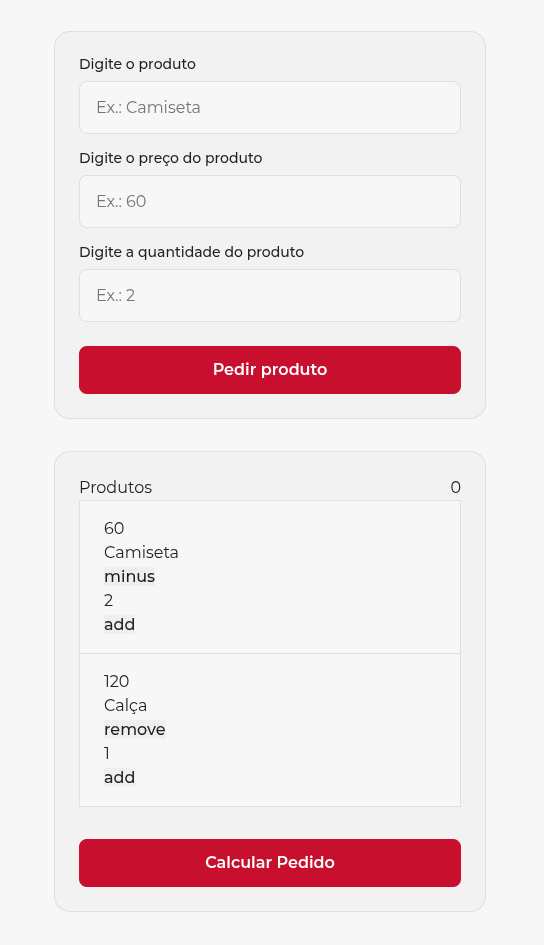
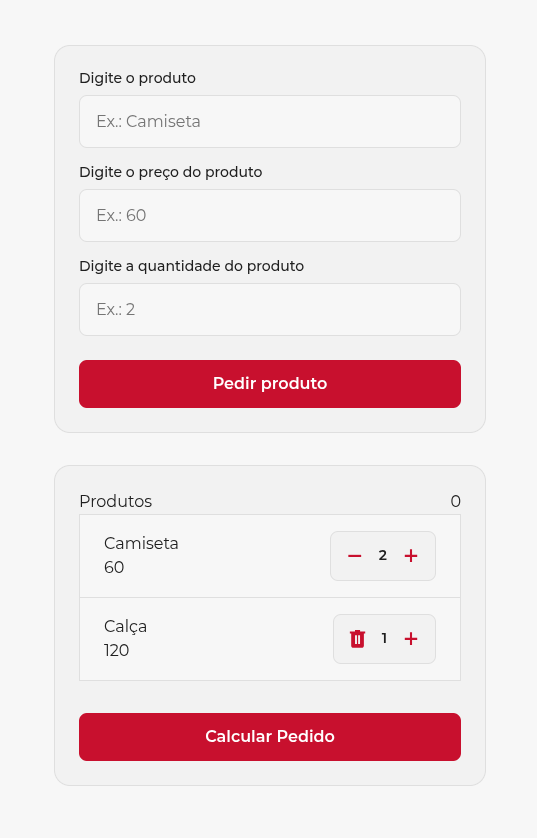
doc:atualiza o README.md

diff --git a/README.md b/README.md
@@ -1,21 +1,50 @@
-    # 🛒 Carrinho de Compras Interativo
+<div align="center">
+  <img src="img/preview.png" alt="Demonstração do projeto" width="600" style="border-radius: 8px;">
 
-    Projeto desenvolvido em JavaScript puro para praticar manipulação do DOM e métodos modernos de array.
+  # 🛒 Carrinho de Compras Interativo
 
-    ## 🚀 Funcionalidades
-    - Adição de produtos com nome, preço e quantidade.
-    - Incremento e decremento dinâmico de itens estilo iFood.
-    - Cálculo automático do valor total do carrinho utilizando o método `reduce()`.
-    - Interface responsiva em CSS (Flexbox).
+  <p align="center">
+    <img src="https://shields.io" alt="JavaScript">
+    <img src="https://shields.io" alt="HTML5">
+    <img src="https://shields.io" alt="CSS3">
+  </p>
 
-    ## 🛠 Tecnologias Utilizadas
-    - HTML5
-    - CSS3 (Flexbox)
-    - JavaScript ES6+ (`reduce`, `map`, `filter`)
+  <p><i>Projeto desenvolvido em JavaScript puro para praticar manipulação do DOM e métodos modernos de array.</i></p>
+</div>
 
-    ## 📌 Como rodar o projeto
-    Apenas abra o arquivo `index.html` em qualquer navegador.
+<hr>
 
-    ## 📸 Aparencia do projeto
-    - Foto da aparencia atual do projeto, ja estruturado 
-    <img src="img/preview.png" alt="Demonstração do projeto" width="400">
+## 🚀 Funcionalidades
+
+O projeto simula a experiência de um e-commerce moderno com as seguintes capacidades:
+
+* **Gerenciamento de Itens:** Adição de produtos informando nome, preço e quantidade.
+* **Controle de Quantidade:** Incremento e decremento dinâmico de itens diretamente no carrinho (estilo iFood).
+* **Cálculo em Tempo Real:** Atualização automática do valor total utilizando o método `reduce()`.
+* **Layout Fluido:** Interface totalmente responsiva construída com CSS Flexbox.
+
+---
+
+## 🛠 Tecnologias Utilizadas
+
+Abaixo estão as ferramentas e conceitos do ecossistema Web aplicados neste projeto:
+
+* **HTML5:** Estruturação semântica da página.
+* **CSS3:** Estilização moderna utilizando propriedades avançadas de Flexbox.
+* **JavaScript ES6+:** Manipulação robusta do DOM e métodos funcionais de array:
+  * `reduce()` — Para consolidação e cálculo dos valores.
+  * `map()` — Para renderização dinâmica dos elementos na tela.
+  * `filter()` — Para remoção cirúrgica de itens do carrinho.
+
+---
+
+## 📌 Como Rodar o Projeto
+
+Para visualizar o projeto localmente, basta seguir os passos abaixo:
+
+1. Baixe os arquivos do repositório ou clone o projeto:
+   ```bash
+   git clone https://github.com
+   ```
+2. Navegue até a pasta do projeto.
+3. Dê um duplo clique no arquivo **`index.html`** para abri-lo diretamente em qualquer navegador moderno.
